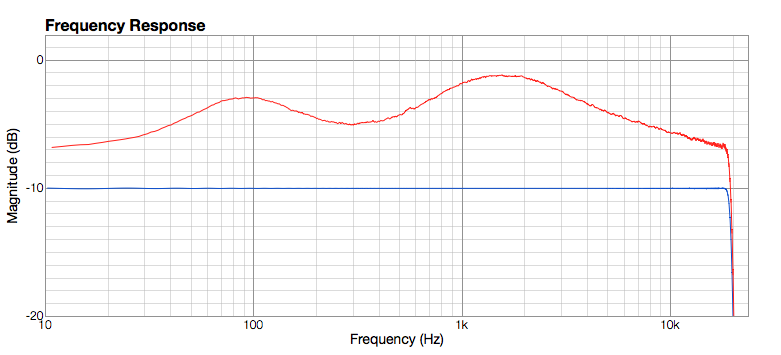
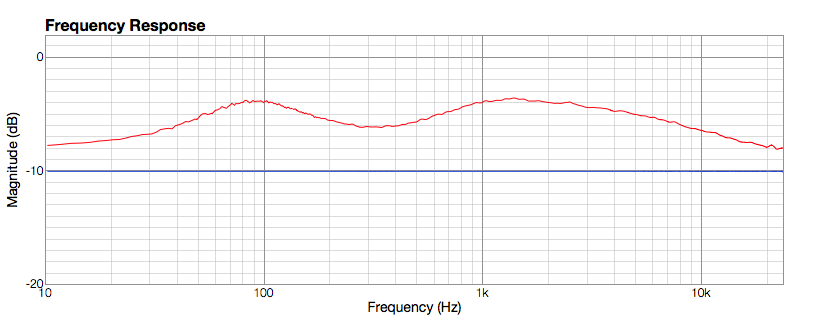
변경된 EG96 sports/cinema 에 맞게 테스트 스펙을 수정했습니다. antiphase 체크의 경우, 동일한 조건의 측정을 할 수 없어서 변경된 파라메터로부터 추정해서 수정했습니다.

Changed region(s): [[0.0, 0.031, 0.9834, 0.9288], [0.4302, 0.9288, 0.5839, 0.9907]]

diff --git a/WebOS/EG96/2_Sound_Mode/3_Cinema/1_Home/Cinema.tex b/WebOS/EG96/2_Sound_Mode/3_Cinema/1_Home/Cinema.tex
@@ -10,16 +10,16 @@ Audio EQ & \color{black}{Off} & Instart &
 \begin{itemize}
 \item Frequency Response Check
 	\begin{itemize}
-	\item 50Hz에서 ref 신호와의 레벨 차이값이 4.5±1dBr 이내
-	\item 100Hz에서 ref 신호와의 레벨 차이값이 6.0±1dBr 이내
-	\item 1.5kHz에서 ref 신호와의 레벨 차이값이 8.0±1dBr 이내
-	\item 5kHz에서 ref 신호와의 레벨 차이값이 5.0±1dBr 이내
+	\item 50Hz에서 ref 신호와의 레벨 차이값이 3.0±1dBr 이내
+	\item 100Hz에서 ref 신호와의 레벨 차이값이 4.0±1dBr 이내
+	\item 1.5kHz에서 ref 신호와의 레벨 차이값이 4.0±1dBr 이내
+	\item 5kHz에서 ref 신호와의 레벨 차이값이 3.0±1dBr 이내
 	\end{itemize}
 \item Antiphase Level Check
 	\begin{itemize}
-	\item 50Hz에서 ref 신호와의 레벨 차이값이 15.0±2dBr 이내
-	\item 1kHz에서 ref 신호와의 레벨 차이값이 16.5±2dBr 이내
-	\item 5kHz에서 ref 신호와의 레벨 차이값이 16.0±2dBr 이내
+	\item 50Hz에서 ref 신호와의 레벨 차이값이 13.5±2dBr 이내
+	\item 1kHz에서 ref 신호와의 레벨 차이값이 14.5±2dBr 이내
+	\item 5kHz에서 ref 신호와의 레벨 차이값이 14.0±2dBr 이내
 	\end{itemize}
 \end{itemize}
 } \\

diff --git a/WebOS/EG96/2_Sound_Mode/3_Cinema/2_Store/Cinema.tex b/WebOS/EG96/2_Sound_Mode/3_Cinema/2_Store/Cinema.tex
@@ -10,16 +10,16 @@ Audio EQ & \color{black}{Off} & Instart &
 \begin{itemize}
 \item Frequency Response Check
 	\begin{itemize}
-	\item 50Hz에서 ref 신호와의 레벨 차이값이 5.5±1dBr 이내
-	\item 100Hz에서 ref 신호와의 레벨 차이값이 7.0±1dBr 이내
-	\item 1.5kHz에서 ref 신호와의 레벨 차이값이 9.0±1dBr 이내
-	\item 5kHz에서 ref 신호와의 레벨 차이값이 6.0±1dBr 이내
+	\item 50Hz에서 ref 신호와의 레벨 차이값이 5.0±1dBr 이내
+	\item 100Hz에서 ref 신호와의 레벨 차이값이 6.0±1dBr 이내
+	\item 1.5kHz에서 ref 신호와의 레벨 차이값이 6.0±1dBr 이내
+	\item 5kHz에서 ref 신호와의 레벨 차이값이 5.0±1dBr 이내
 	\end{itemize}
 \item Antiphase Level Check
 	\begin{itemize}
-	\item 50Hz에서 ref 신호와의 레벨 차이값이 15.5±2dBr 이내
-	\item 1kHz에서 ref 신호와의 레벨 차이값이 17.3±2dBr 이내
-	\item 5kHz에서 ref 신호와의 레벨 차이값이 16.5±2dBr 이내
+	\item 50Hz에서 ref 신호와의 레벨 차이값이 14.5±2dBr 이내
+	\item 1kHz에서 ref 신호와의 레벨 차이값이 16.3±2dBr 이내
+	\item 5kHz에서 ref 신호와의 레벨 차이값이 15.5±2dBr 이내
 	\end{itemize}
 \end{itemize}
 } \\

diff --git a/WebOS/EG96/2_Sound_Mode/4_Sports/1_Home/Sports.tex b/WebOS/EG96/2_Sound_Mode/4_Sports/1_Home/Sports.tex
@@ -10,16 +10,16 @@ Audio EQ & \color{black}{Off} & Instart &
 \begin{itemize}
 \item Frequency Response Check
 	\begin{itemize}
-	\item 50Hz에서 ref 신호와의 레벨 차이값이 4.5±1dBr 이내
-	\item 100Hz에서 ref 신호와의 레벨 차이값이 4.5±1dBr 이내
-	\item 2kHz에서 ref 신호와의 레벨 차이값이 10.0±1dBr 이내
-	\item 10kHz에서 ref 신호와의 레벨 차이값이 5.5±1dBr 이내
+	\item 50Hz에서 ref 신호와의 레벨 차이값이 0.5±1dBr 이내
+	\item 100Hz에서 ref 신호와의 레벨 차이값이 1.0±1dBr 이내
+	\item 2kHz에서 ref 신호와의 레벨 차이값이 4.0±1dBr 이내
+	\item 10kHz에서 ref 신호와의 레벨 차이값이 0.5±1dBr 이내
 	\end{itemize}
 \item Antiphase Level Check
 	\begin{itemize}
-	\item 50Hz에서 ref 신호와의 레벨 차이값이 5.5±2dBr 이내
-	\item 1kHz에서 ref 신호와의 레벨 차이값이 10.0±2dBr 이내
-	\item 5kHz에서 ref 신호와의 레벨 차이값이 8.5±2dBr 이내
+	\item 50Hz에서 ref 신호와의 레벨 차이값이 0.5±2dBr 이내
+	\item 1kHz에서 ref 신호와의 레벨 차이값이 4.0±2dBr 이내
+	\item 5kHz에서 ref 신호와의 레벨 차이값이 3.5±2dBr 이내
 	\end{itemize}
 \end{itemize}
 } \\

diff --git a/WebOS/EG96/2_Sound_Mode/4_Sports/2_Store/Sports.tex b/WebOS/EG96/2_Sound_Mode/4_Sports/2_Store/Sports.tex
@@ -10,15 +10,15 @@ Audio EQ & \color{black}{Off} & Instart &
 \begin{itemize}
 \item Frequency Response Check
 	\begin{itemize}
-	\item 50Hz에서 ref 신호와의 레벨 차이값이 6.0±1dBr 이내
-	\item 100Hz에서 ref 신호와의 레벨 차이값이 6.0±1dBr 이내
-	\item 2kHz에서 ref 신호와의 레벨 차이값이 12.0±1dBr 이내
-	\item 10kHz에서 ref 신호와의 레벨 차이값이 7.0±1dBr 이내
+	\item 50Hz에서 ref 신호와의 레벨 차이값이 4.0±1dBr 이내
+	\item 100Hz에서 ref 신호와의 레벨 차이값이 4.0±1dBr 이내
+	\item 2kHz에서 ref 신호와의 레벨 차이값이 8.0±1dBr 이내
+	\item 10kHz에서 ref 신호와의 레벨 차이값이 4.0±1dBr 이내
 	\end{itemize}
 \item Antiphase Level Check
 	\begin{itemize}
-	\item 50Hz에서 ref 신호와의 레벨 차이값이 15.0±2dBr 이내
-	\item 1kHz에서 ref 신호와의 레벨 차이값이 19.0±2dBr 이내
+	\item 50Hz에서 ref 신호와의 레벨 차이값이 11.0±2dBr 이내
+	\item 1kHz에서 ref 신호와의 레벨 차이값이 15.0±2dBr 이내
 	\item 5kHz에서 ref 신호와의 레벨 차이값이 18.5±2dBr 이내
 	\end{itemize}
 \end{itemize}
